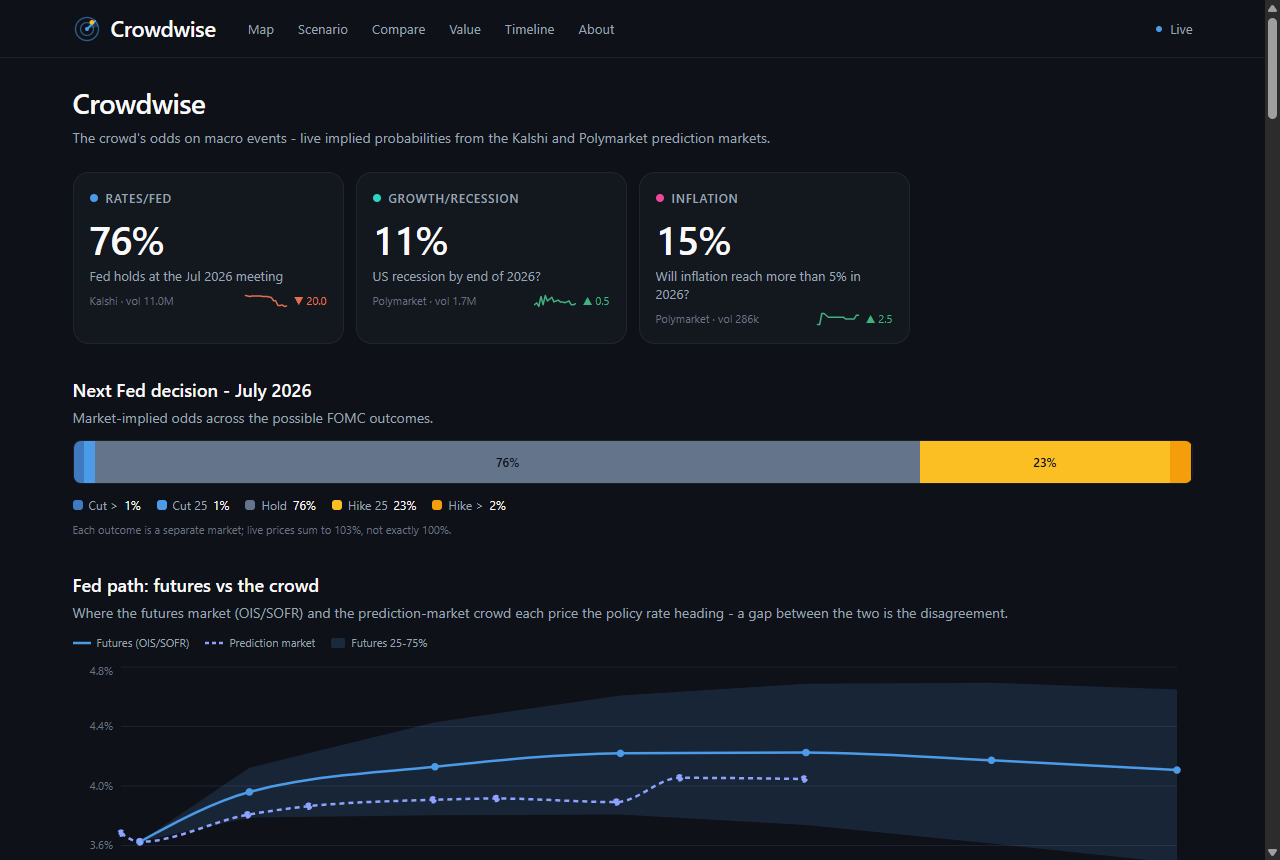
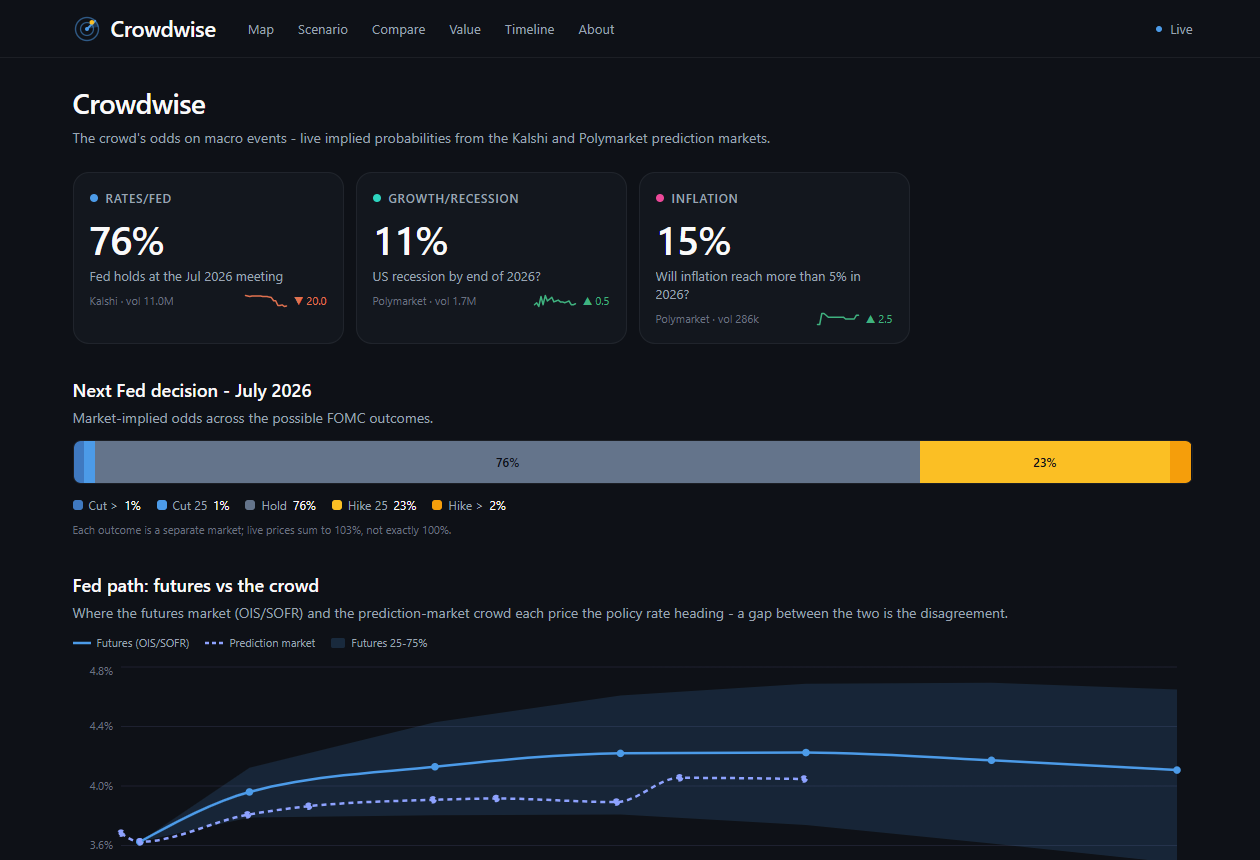
Crop scrollbars off Crowdwise/One Story/Chronoscape thumbs; enlarge name wordmark

diff --git a/index.html b/index.html
@@ -46,7 +46,7 @@
   .wrap { max-width: 860px; margin: 0 auto; padding: 2.2rem 1.5rem 5rem; }
 
   .bar { display: flex; align-items: center; justify-content: space-between; gap: 1rem; margin-bottom: 4.5rem; }
-  .wordmark { font: 600 13px/1 ui-sans-serif, system-ui, sans-serif; letter-spacing: .16em; text-transform: uppercase; color: var(--soft); }
+  .wordmark { font: 600 16px/1 ui-sans-serif, system-ui, sans-serif; letter-spacing: .13em; text-transform: uppercase; color: var(--ink); }
   .toggle { appearance: none; cursor: pointer; background: transparent; color: var(--soft); border: 1px solid var(--rule); border-radius: 999px; padding: .45rem .85rem; font: 500 12px/1 ui-sans-serif, system-ui, sans-serif; letter-spacing: .04em; display: inline-flex; align-items: center; gap: .5rem; transition: border-color .2s, color .2s; }
   .toggle:hover { color: var(--ink); border-color: var(--accent); }
   .toggle .dot { width: 8px; height: 8px; border-radius: 50%; background: var(--accent); }
